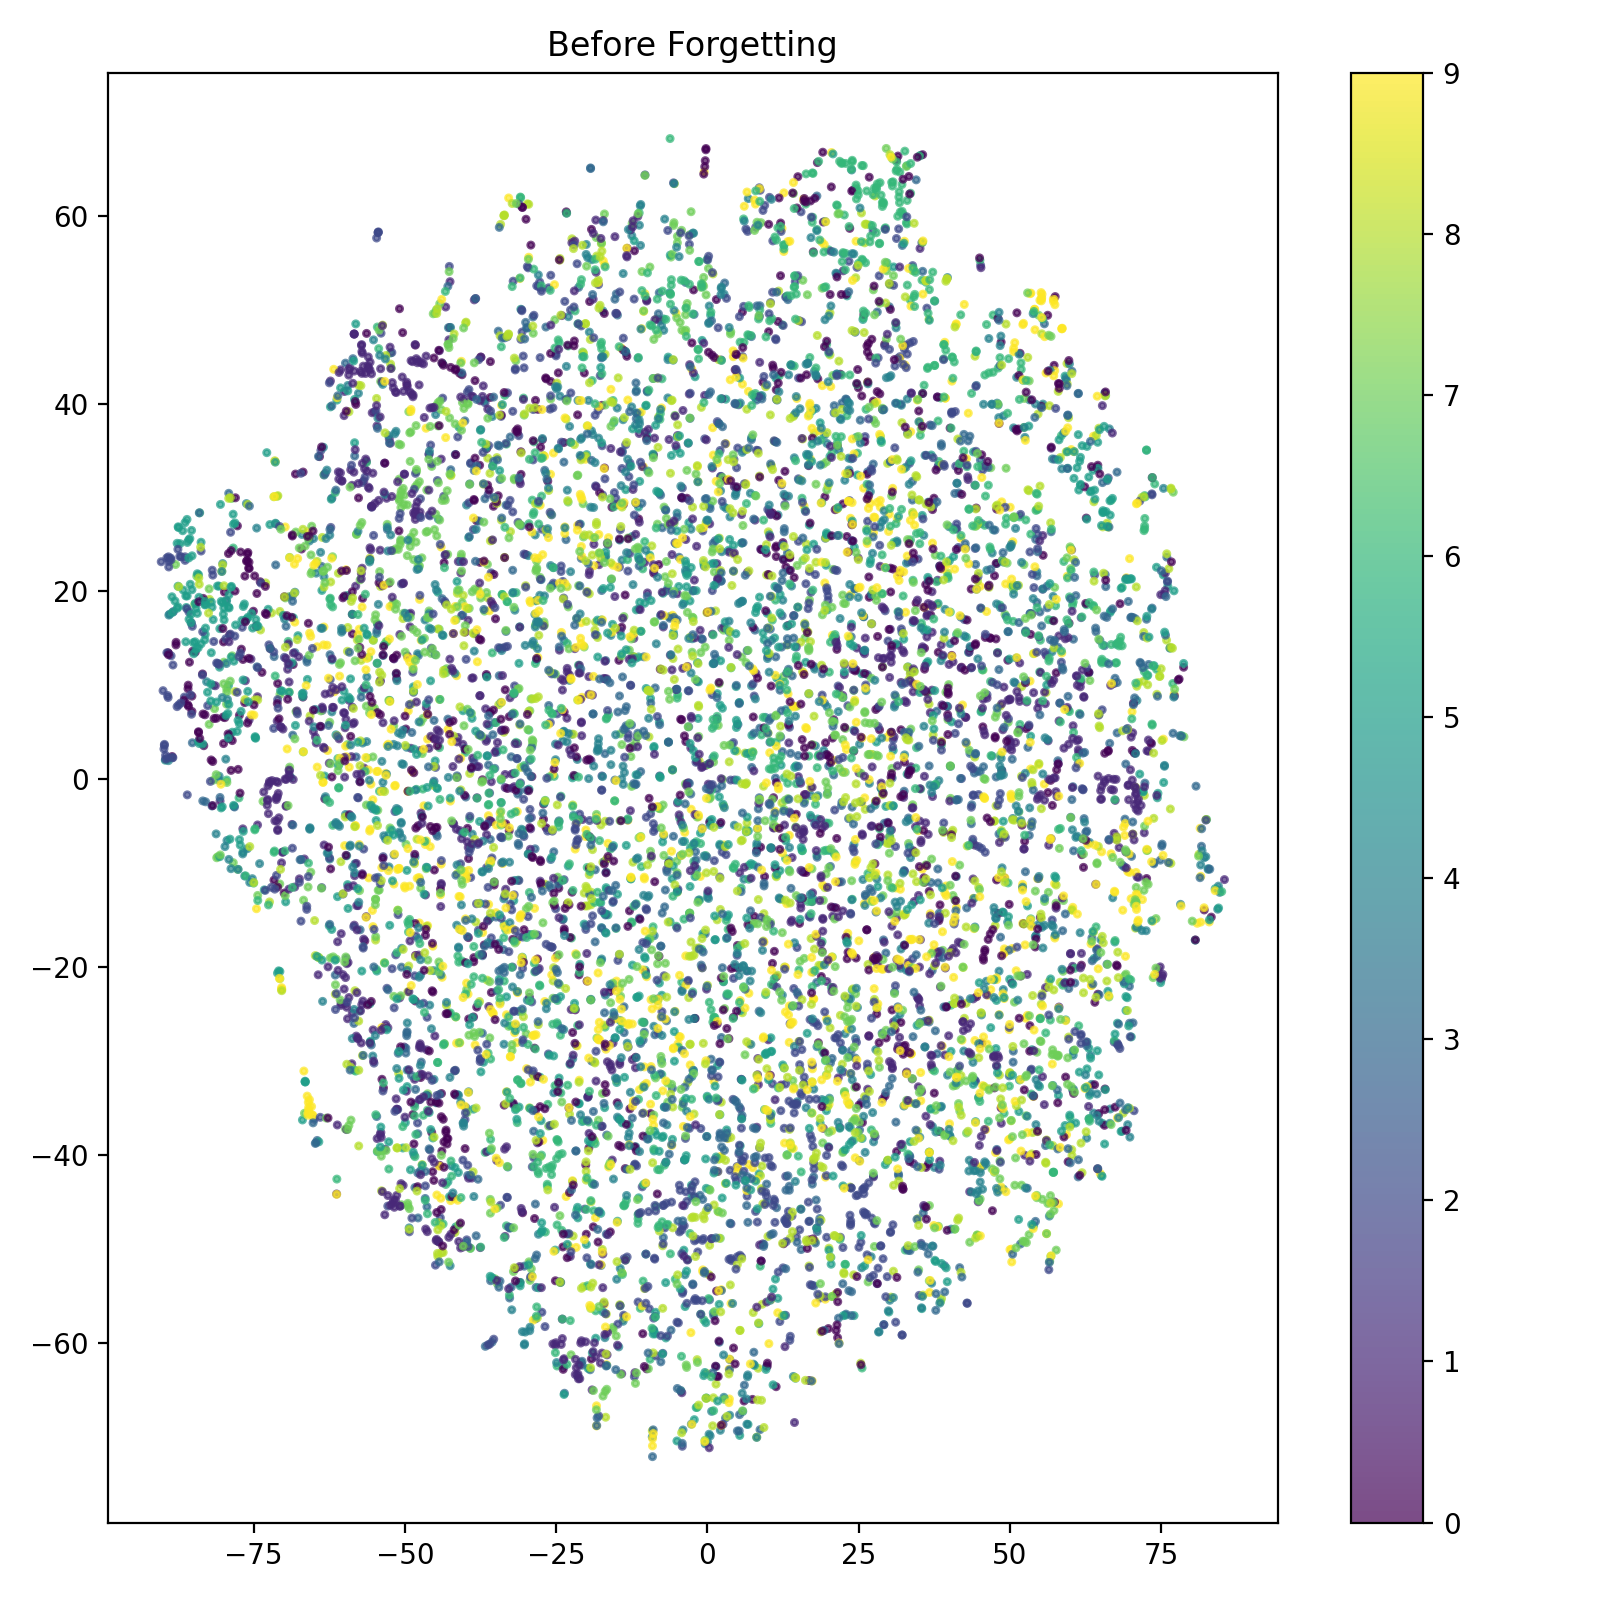
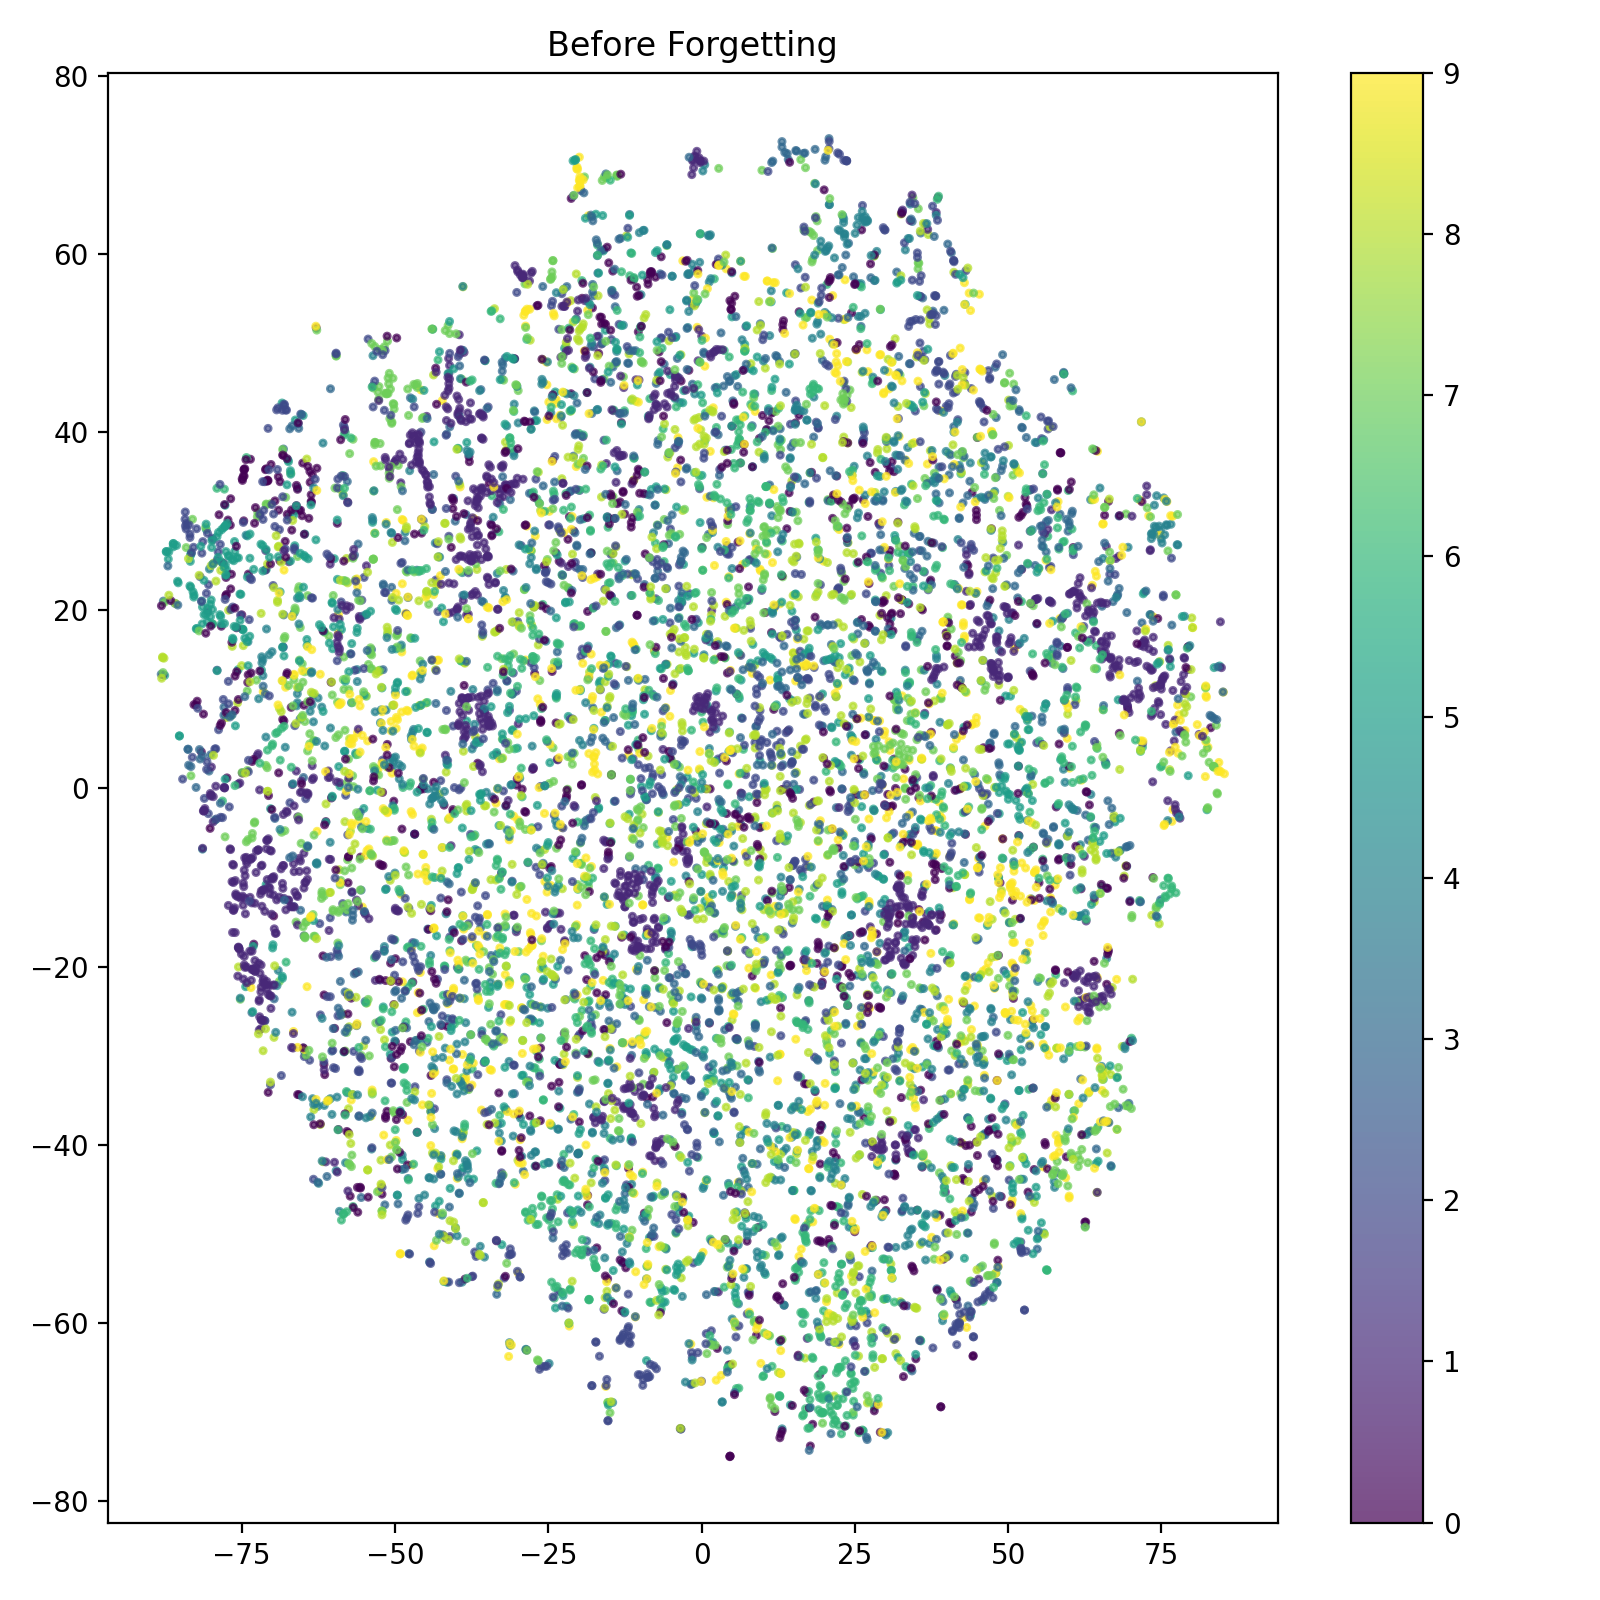
fix plot

diff --git a/plot_latent_space_tsne.py b/plot_latent_space_tsne.py
@@ -23,18 +23,26 @@ def load_vae(ckpt_path, device):
 
 
 @torch.no_grad()
-def extract_latents(vae, dataloader, device):
+def extract_latents_twice(vae, dataloader, device):
     zs, labels = [], []
     for data, label in dataloader:
         data, label = data.to(device), label.to(device)
         label_oh = F.one_hot(label, 10).float()
-        mu, log_var = vae.encoder(data.view(-1, 784), label_oh)
-        std = torch.exp(0.5*log_var)
-        eps = torch.randn_like(std)
-        z = eps.mul(std).add_(mu)
-        zs.append(z.cpu().numpy())
+
+        # 1. Encode input
+        mu, _ = vae.encoder(data.view(-1, 784), label_oh)
+
+        # 2. Decode mu
+        x_hat = vae.decoder(mu, label_oh)
+
+        # 3. Encode reconstructed x_hat
+        z_new, _ = vae.encoder(x_hat, label_oh)
+
+        zs.append(z_new.cpu().numpy())
         labels.append(label.cpu().numpy())
+
     return np.concatenate(zs, axis=0), np.concatenate(labels, axis=0)
+
 
 
 def plot_latent_embeddings(zs, labels, save_path, title="t-SNE latent space"):
@@ -76,12 +84,12 @@ def main():
     test_loader = torch.utils.data.DataLoader(test_dataset, batch_size=512, shuffle=False)
 
     # Extract latent representations
-    zs_base, labels = extract_latents(vae_base, test_loader, device)
-    zs_forget, _ = extract_latents(vae_forget, test_loader, device)
+    zs_base, labels = extract_latents_twice(vae_base, test_loader, device)
+    zs_forget, forget_labels = extract_latents_twice(vae_forget, test_loader, device)
 
     # Plot t-SNE for both
     plot_latent_embeddings(zs_base, labels, save_path=os.path.join(base_ckpt_path, "latent_tsne_before.png"), title="Before Forgetting")
-    plot_latent_embeddings(zs_forget, labels, save_path=os.path.join(forget_ckpt_path, "latent_tsne_after.png"), title="After Forgetting")
+    plot_latent_embeddings(zs_forget, forget_labels, save_path=os.path.join(forget_ckpt_path, "latent_tsne_after.png"), title="After Forgetting")
 
 
 if __name__ == "__main__":
